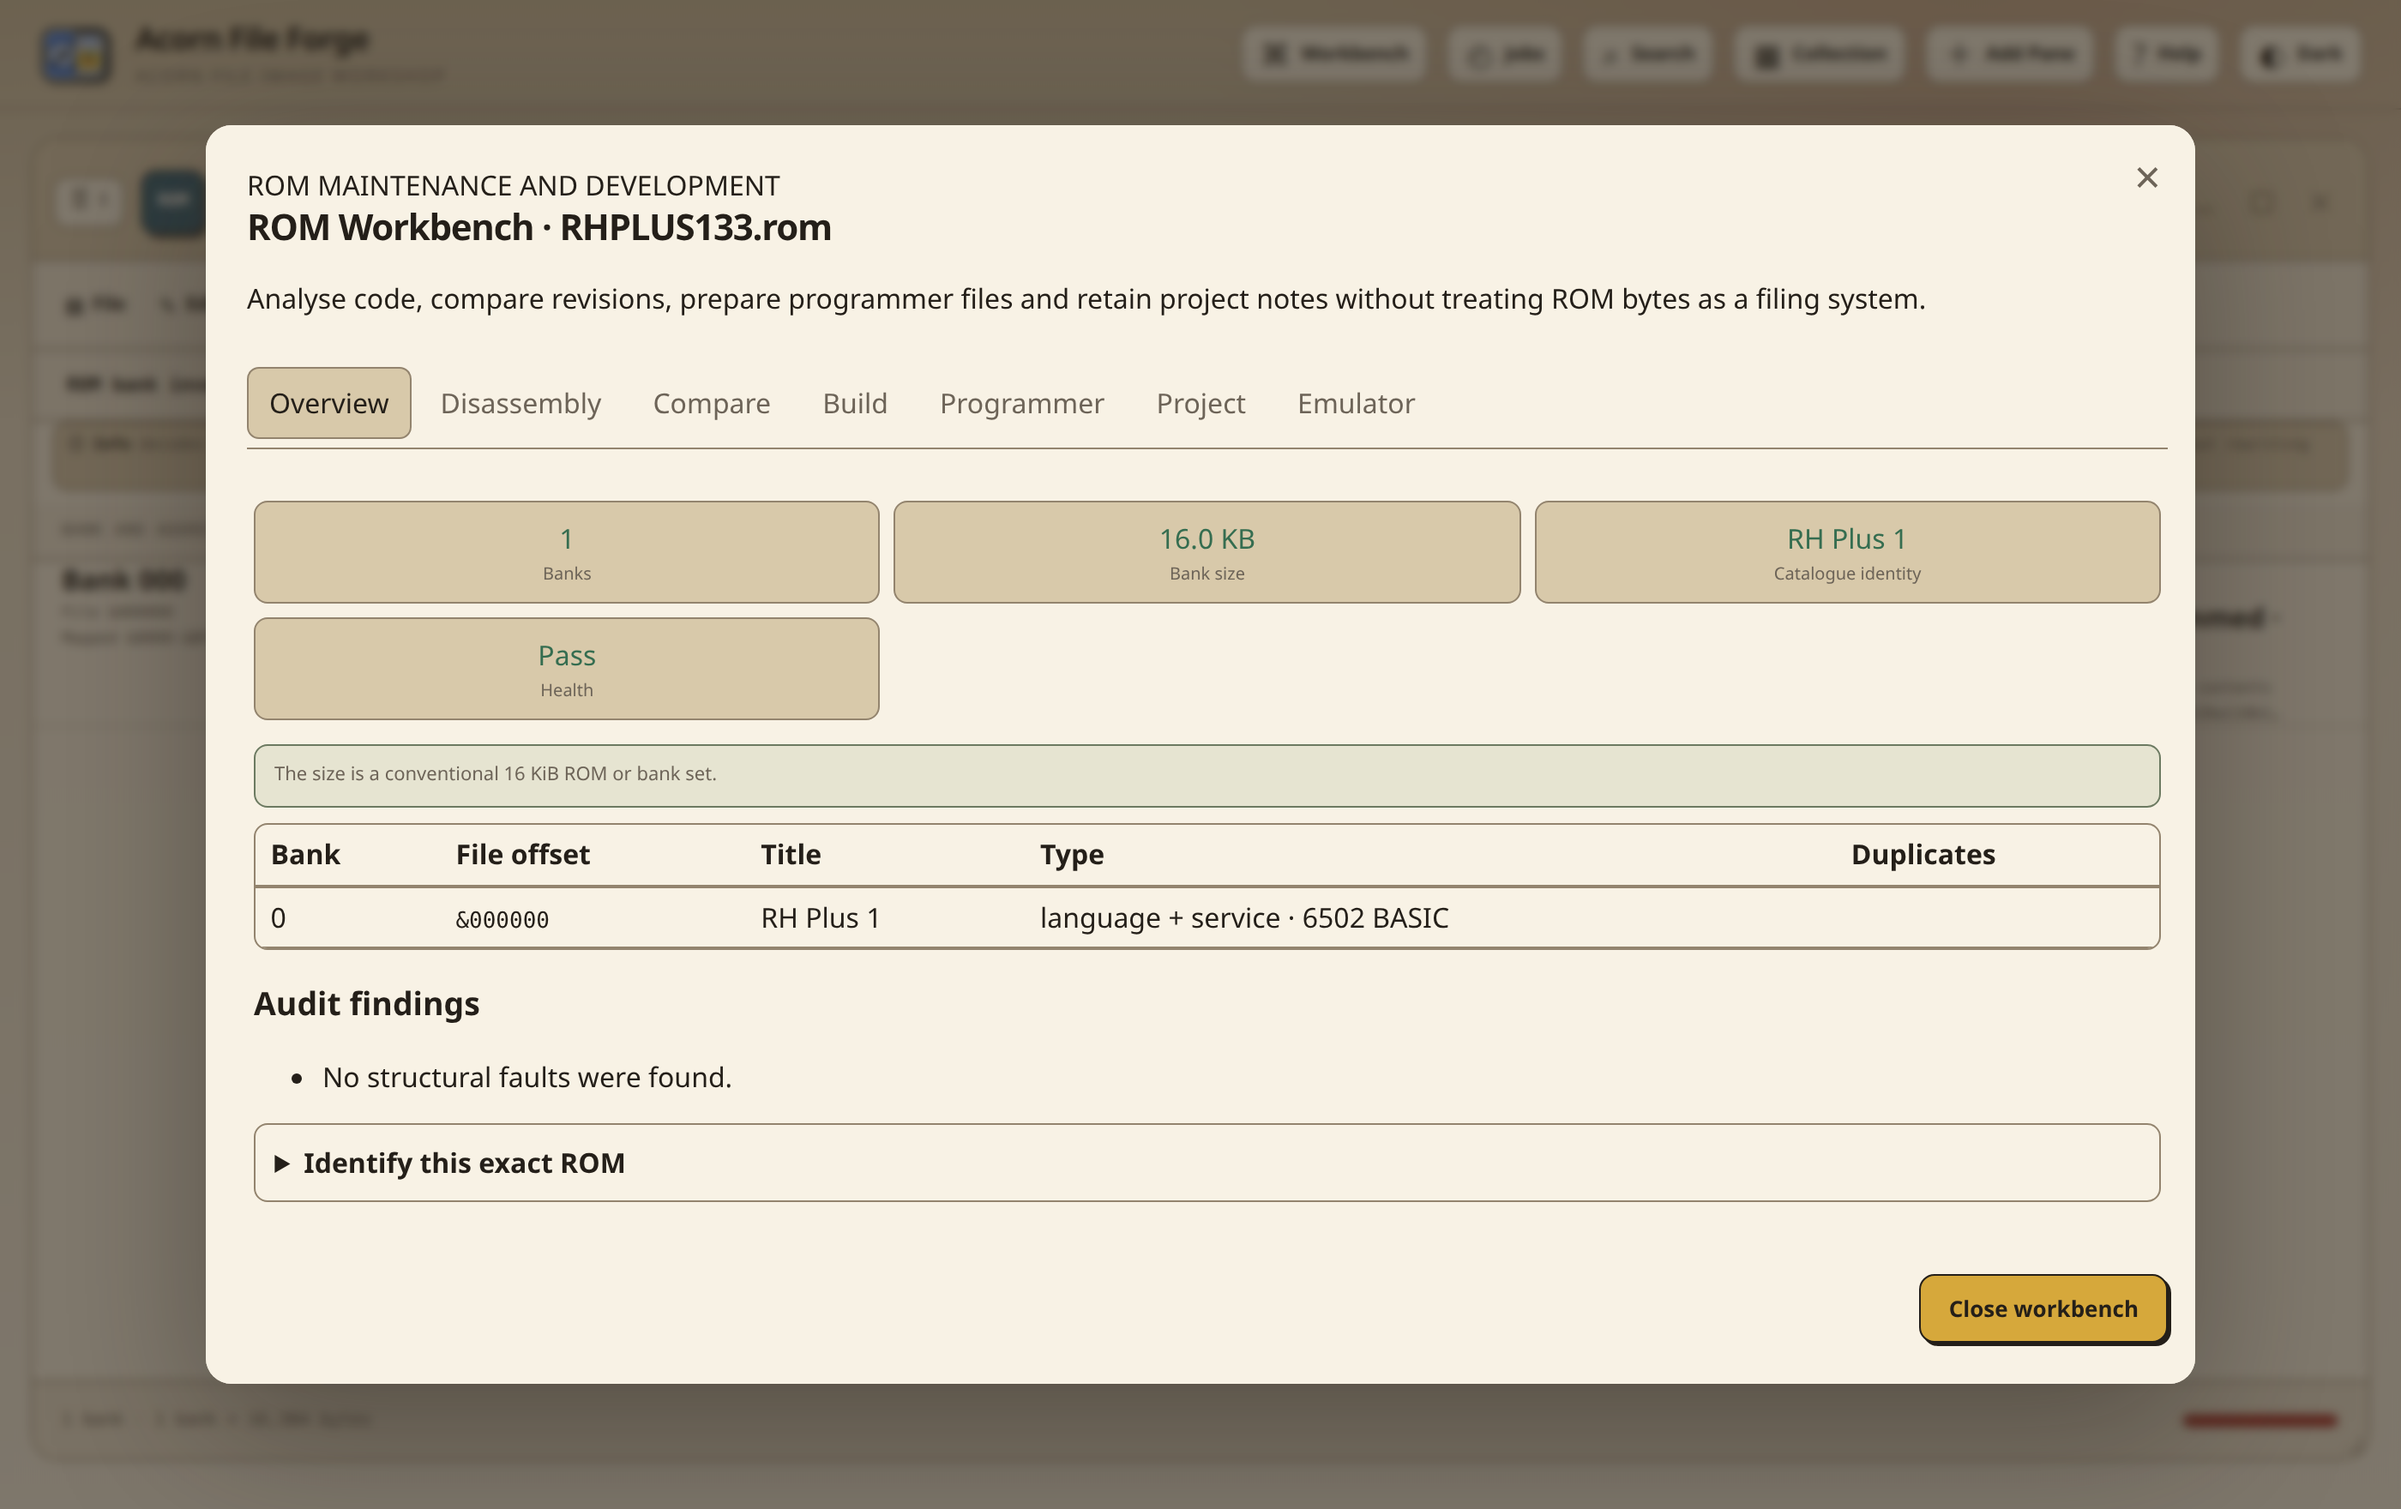
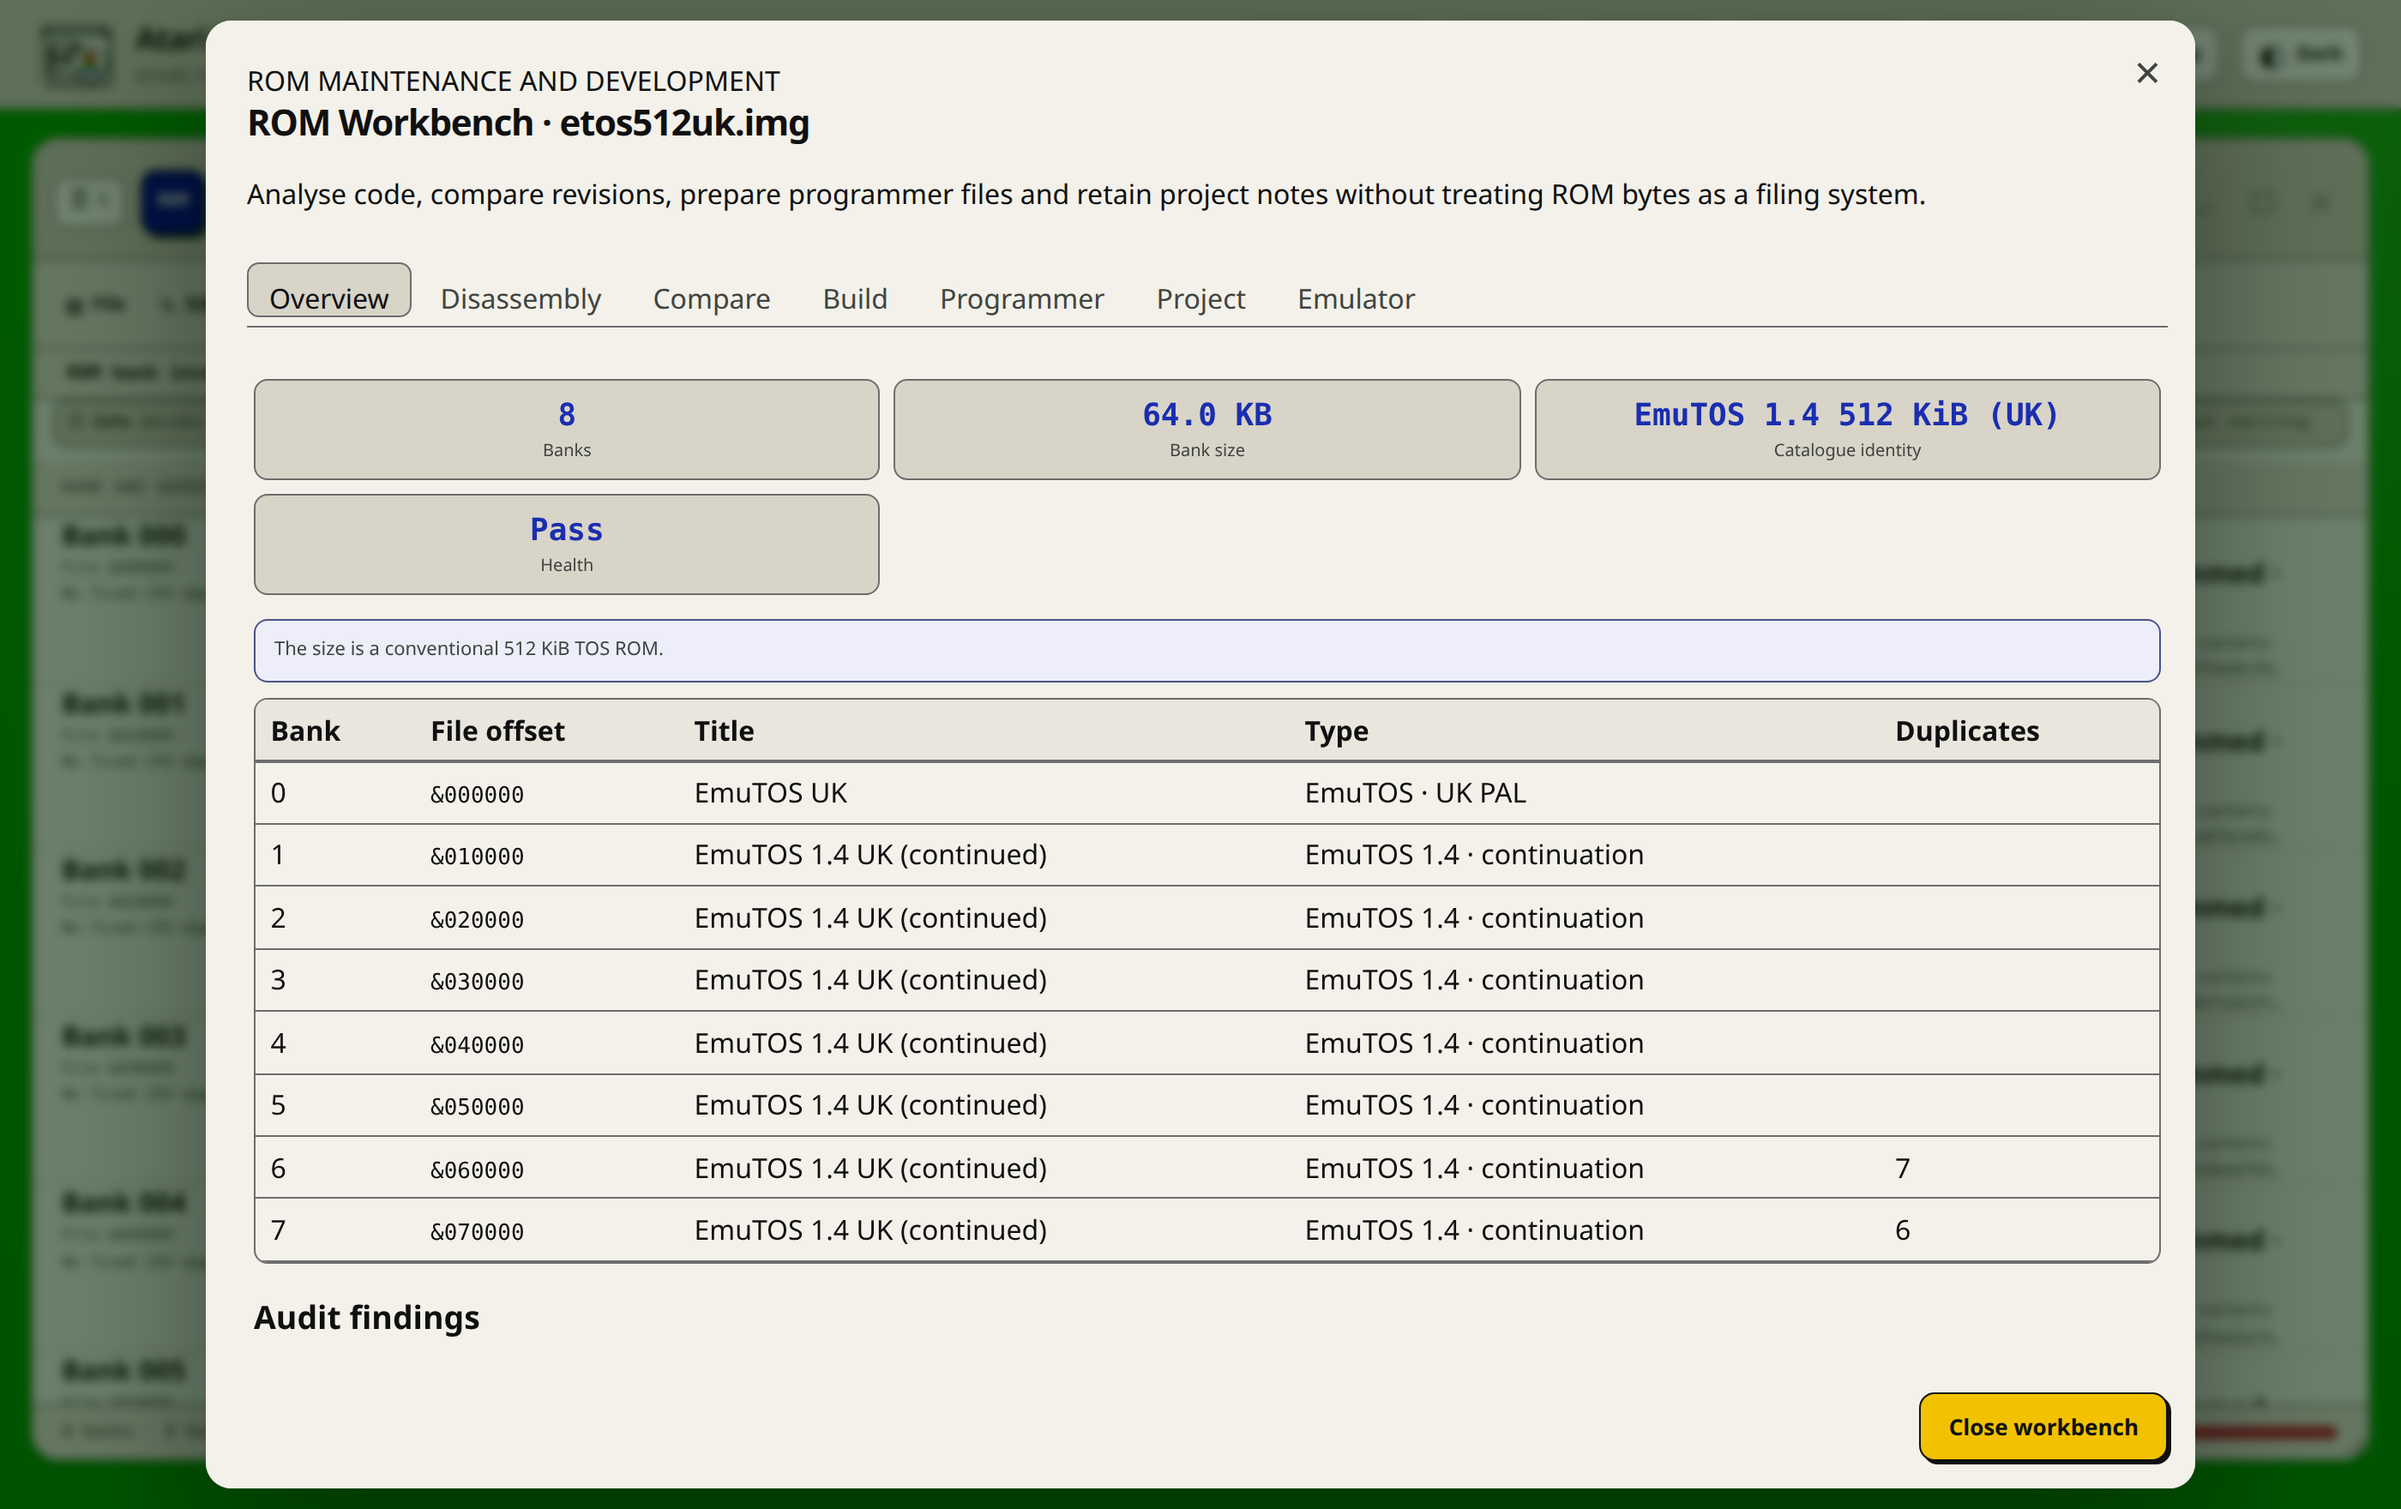
Let a first listing choose where the code begins
The previous change taught the decoder to skip a program header, but the
editor asked for offset 0 and 8192 bytes on every request, so the
decoder was never allowed to choose and the listing still opened on the
header.

An absent offset and an offset of zero are different answers to the same
question. Zero means the reader wants the first byte of the file, header
included, which is a reasonable thing to want. Absent means they have
not said. Those are now kept apart the whole way from the query string
to the decoder, so the first listing of a program starts at its code and
asking for zero still shows the header.

The offset and byte-count boxes are filled in from what came back rather
than from constants, so the reader can see where the listing starts and
move it.

diff --git a/app/static/app.js b/app/static/app.js
@@ -6720,7 +6720,12 @@ function installSourceEditorControls(index, pane, entry, path, report, canEdit, 
   updateSourceEditorStatus(root);
 }
 
-async function renderDisassemblyEditor(index, entry, path, inspection, architecture = "auto", origin = "", start = "0", length = "8192", focusOffset = null, target = null) {
+// `start` and `length` are empty by default rather than 0 and 8192, so that
+// the first listing of a file lets the decoder choose. For an Atari program
+// that means starting at the code instead of at the 28-byte header. The boxes
+// are then filled in from what came back, so the reader can see the offset and
+// change it.
+async function renderDisassemblyEditor(index, entry, path, inspection, architecture = "auto", origin = "", start = "", length = "", focusOffset = null, target = null) {
   const pane = panes[index];
   if (!target) retainEditorDocument(index, pane, entry, path, "disassembly");
   const query = new URLSearchParams({
@@ -6736,7 +6741,7 @@ async function renderDisassemblyEditor(index, entry, path, inspection, architect
       <label>Processor<select name="architecture">${["68000", "68010", "68020", "68030", "68040", "68060"].map(target => `<option value="${target}" ${report.architecture === target ? "selected" : ""}>MC${target}</option>`).join("")}</select></label>
       <label>Origin<input name="origin" value="0x${Number(report.origin).toString(16).toUpperCase()}"></label>
       <label>File offset<input name="start" value="${Number(report.start)}"></label>
-      <label>Bytes<input name="length" value="${Number(length) || 8192}"></label>
+      <label>Bytes<input name="length" value="${Number(length) || Math.max(0, Number(report.end) - Number(report.start)) || 8192}"></label>
       <button class="button small disassembly-refresh" type="button">Disassemble</button>
     </div>
     <div class="disassembly-source" style="${disassemblyColumnStyle(report)}" role="textbox" aria-readonly="true" aria-label="Disassembled source"><div class="disassembly-source-head" aria-hidden="true"><span></span><span>Address</span><span>Bytes</span><span>Instruction</span><span>Annotation</span></div>${disassemblySource(report)}</div>

diff --git a/tests/test_file_editor.py b/tests/test_file_editor.py
@@ -644,31 +644,38 @@ class ProgramDisassemblyTests(unittest.TestCase):
         seven lines that meant nothing.
         """
         program = self._program(b"\x4e\x71" * 8)
-        header, start, length = _program_body(program, 0, None)
+        header, start, length = _program_body(program, None, None)
         self.assertEqual(start, 28)
         self.assertEqual(length, 16)
         self.assertEqual(header["text"], 16)
 
     def test_a_symbol_table_is_not_disassembled_as_code(self) -> None:
         program = self._program(b"\x4e\x71" * 4, symbols=b"SYMBOLDATA" * 4)
-        _header, start, length = _program_body(program, 0, None)
+        _header, start, length = _program_body(program, None, None)
         self.assertEqual((start, length), (28, 8))
 
-    def test_a_caller_asking_for_a_range_gets_that_range(self) -> None:
-        """Reading the header deliberately has to stay possible."""
+    def test_an_offset_of_zero_is_a_deliberate_request_for_the_header(self) -> None:
+        """Absent and zero are different answers to "where do I start?".
+
+        Zero means the reader wants the first byte of the file, header and
+        all. Absent means they have not said, and the decoder should start
+        where the code is. Collapsing the two loses the only way to look at
+        a program header in the disassembler.
+        """
         program = self._program(b"\x4e\x71" * 8)
         self.assertEqual(_program_body(program, 0, 28)[1:], (0, 28))
+        self.assertEqual(_program_body(program, 0, None)[1:], (0, None))
         self.assertEqual(_program_body(program, 2, None)[1:], (2, None))
 
     def test_a_file_that_is_not_a_program_is_left_where_it_was(self) -> None:
-        header, start, length = _program_body(b"not a program at all" * 8, 0, None)
+        header, start, length = _program_body(b"not a program at all" * 8, None, None)
         self.assertIsNone(header)
         self.assertEqual((start, length), (0, None))
 
     def test_a_truncated_program_is_not_treated_as_one(self) -> None:
         """The sizes have to account for the bytes that are there."""
         claimed = struct.pack(">HIIIIIIH", 0x601A, 1_000_000, 0, 0, 0, 0, 0, 0)
-        header, start, _length = _program_body(claimed + b"\x4e\x71", 0, None)
+        header, start, _length = _program_body(claimed + b"\x4e\x71", None, None)
         self.assertIsNone(header)
         self.assertEqual(start, 0)
 

diff --git a/app/file_editor.py b/app/file_editor.py
@@ -637,7 +637,7 @@ def disassemble_file(
     side: int | None,
     architecture: str = "auto",
     origin: int | None = None,
-    start: int = 0,
+    start: int | None = None,
     length: int | None = None,
 ) -> dict:
     data, metadata, size, digest = _context(service, session, path, side, MAX_DISASSEMBLY_FILE)
@@ -655,7 +655,7 @@ def disassemble_file_data(
     path: str,
     architecture: str = "auto",
     origin: int | None = None,
-    start: int = 0,
+    start: int | None = None,
     length: int | None = None,
     *,
     size: int | None = None,
@@ -719,17 +719,19 @@ def _program_body(data: bytes, start: int, length: int | None):
     sizes as instructions, so a listing opened on any Atari program began with
     seven lines of nonsense before reaching the first real instruction.
 
-    The symbol table at the end is not code either, so the length is the text
-    segment. A caller that asks for a particular range gets exactly that
-    range, because somebody reading the header deliberately is entitled to.
+    The symbol table at the end is not code either, so the length defaults to
+    the text segment. A caller that names an offset gets exactly that offset,
+    because somebody reading the header deliberately is entitled to. An absent
+    offset is therefore not the same as zero, and the two are kept apart all
+    the way up to the query string.
     """
-    if start or length is not None:
-        return None, start, length
+    if start is not None:
+        return None, int(start), length
     header = program_header(data)
     if header is None:
-        return None, start, length
+        return None, 0, length
     text = int(header["text"])
-    return header, PROGRAM_TEXT_OFFSET, text or None
+    return header, PROGRAM_TEXT_OFFSET, length if length is not None else (text or None)
 
 
 def _project_data_rows(

diff --git a/app/routes/tools.py b/app/routes/tools.py
@@ -1395,7 +1395,14 @@ def create_tools_blueprint(
             raise DiskError("Choose a file to disassemble.")
         try:
             origin = int(str(request.args.get("origin")), 0) if request.args.get("origin") not in (None, "") else None
-            start = int(str(request.args.get("start") or "0"), 0)
+            # An absent offset is not the same as zero. Zero is a deliberate
+            # request to disassemble from the first byte of the file, header
+            # included; absent lets the decoder start at the code.
+            start = (
+                int(str(request.args.get("start")), 0)
+                if request.args.get("start") not in (None, "")
+                else None
+            )
             length = int(str(request.args.get("length")), 0) if request.args.get("length") not in (None, "") else None
         except ValueError as exc:
             raise DiskError("Origin, offset and length must be valid decimal or 0x-prefixed numbers.") from exc
